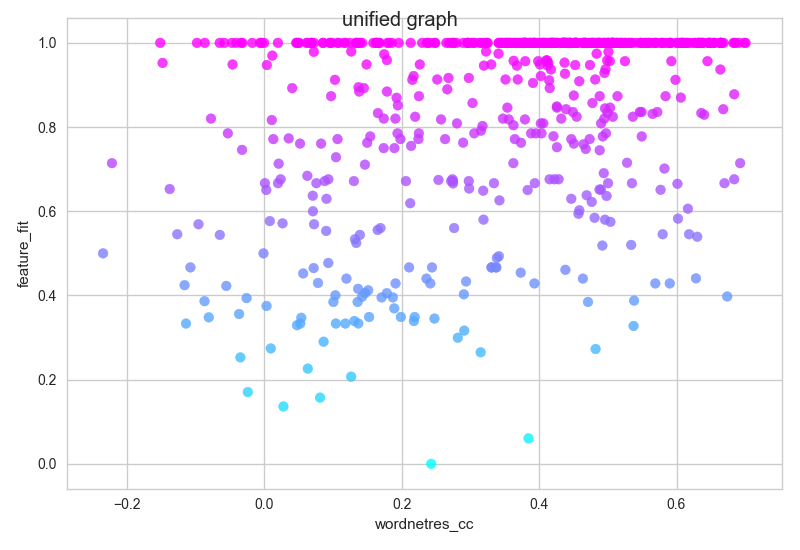
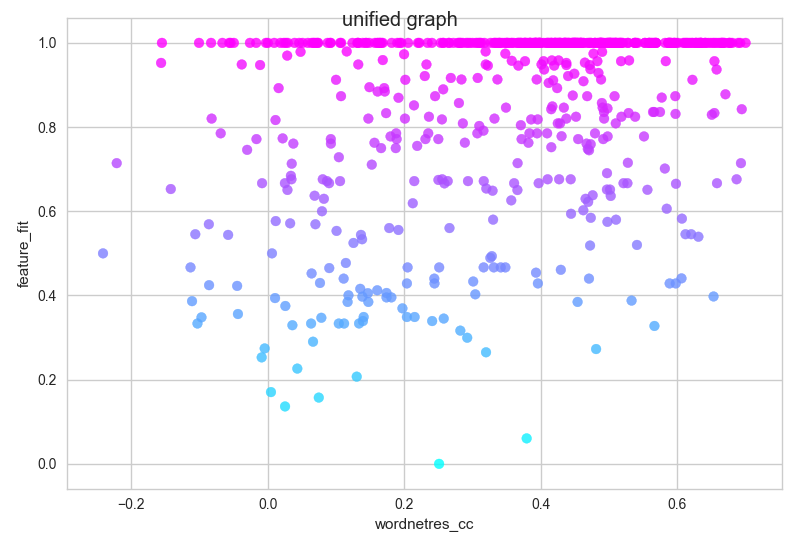
ok first thing tomorrow is to stare at features more, run cslb/word2vec, other fun things on trello

diff --git a/subgraphs/feature_fit.py b/subgraphs/feature_fit.py
@@ -45,7 +45,7 @@ elif PIVOT == "cc":
 elif PIVOT == "word2vec":
     INPUT = "../word2vec/GoogleNews-vectors-negative300.bin"
 
-SOURCE = "cslb"
+SOURCE = "mcrae"
 if SOURCE == "mcrae":
     FEATURES = "../mcrae/CONCS_FEATS_concstats_brm.txt"
 else:
@@ -657,7 +657,7 @@ def cluster_metric_fn(x, y):
         return emb_dist
     else:
         weight_dist = (x_weight - y_weight) ** 2
-        return emb_dist + 10 * weight_dist
+        return emb_dist + 50 * weight_dist
 
 
 def try_cluster(k, X):

diff --git a/subgraphs/get_domains.py b/subgraphs/get_domains.py
@@ -6,7 +6,7 @@ from nltk.corpus import wordnet as wn
 from scipy.cluster import hierarchy
 import numpy as np
 
-SOURCE = "cslb"
+SOURCE = "mcrae"
 VOCAB = "./all/vocab_%s.txt" % SOURCE
 INPUT = "./all/%s_vectors.txt" % SOURCE
 # DOMAINS = '../wndomains/wordnet-domains-3.2-wordnet-3.0.txt'
